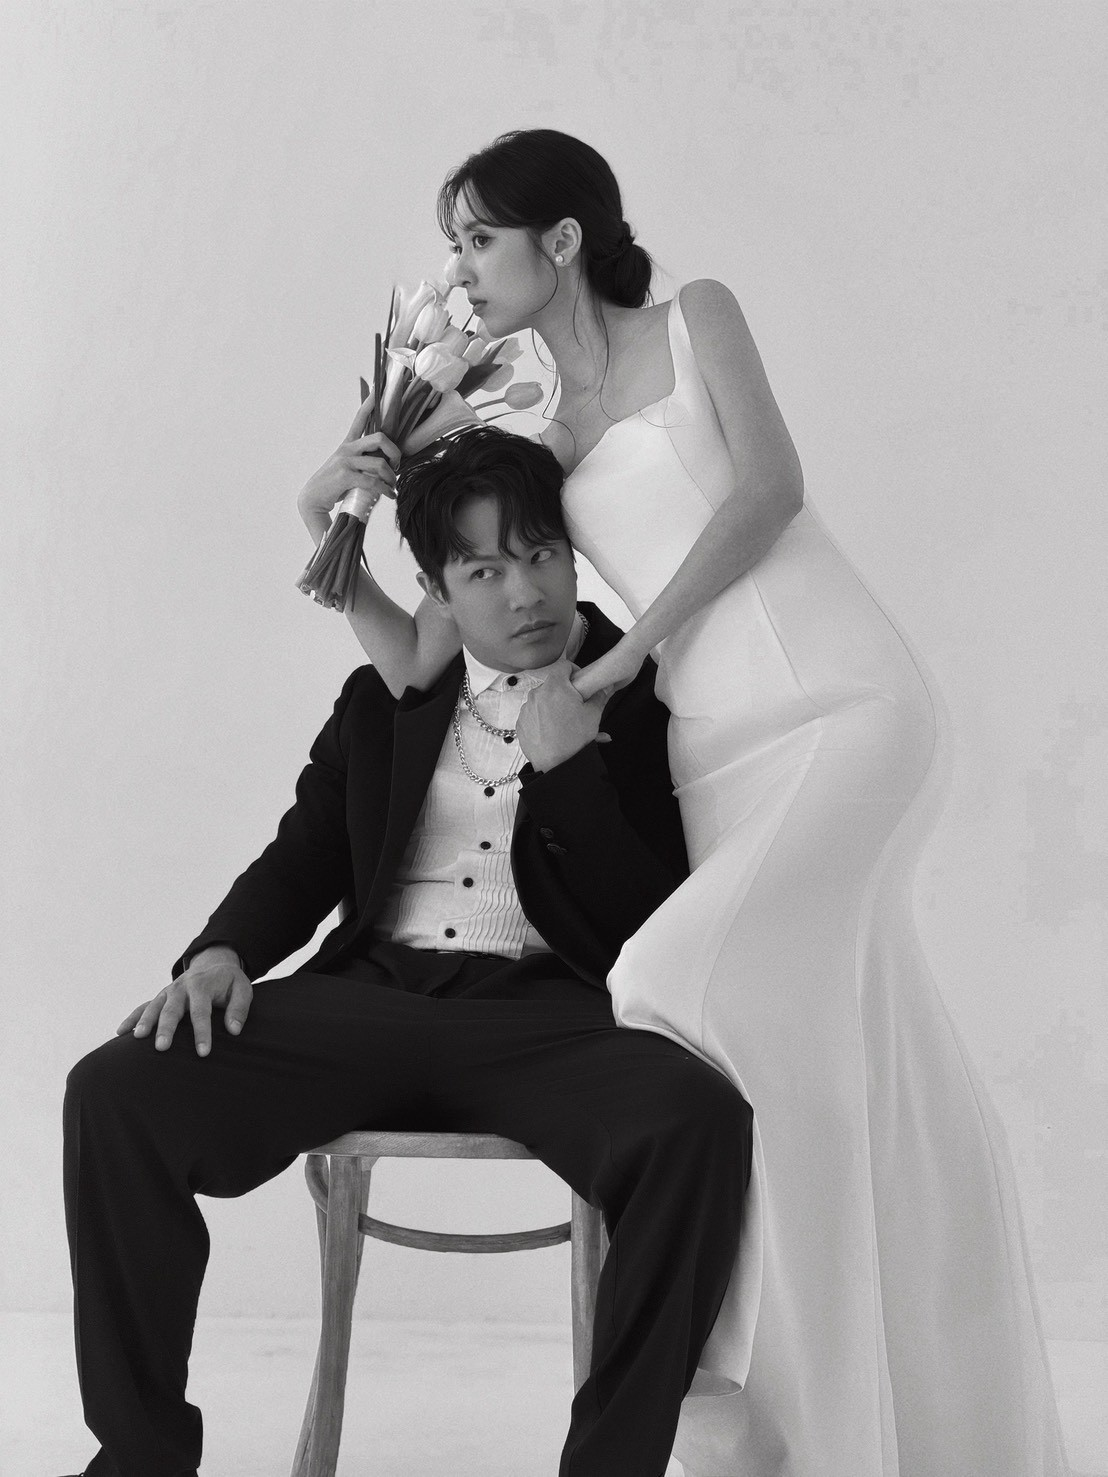
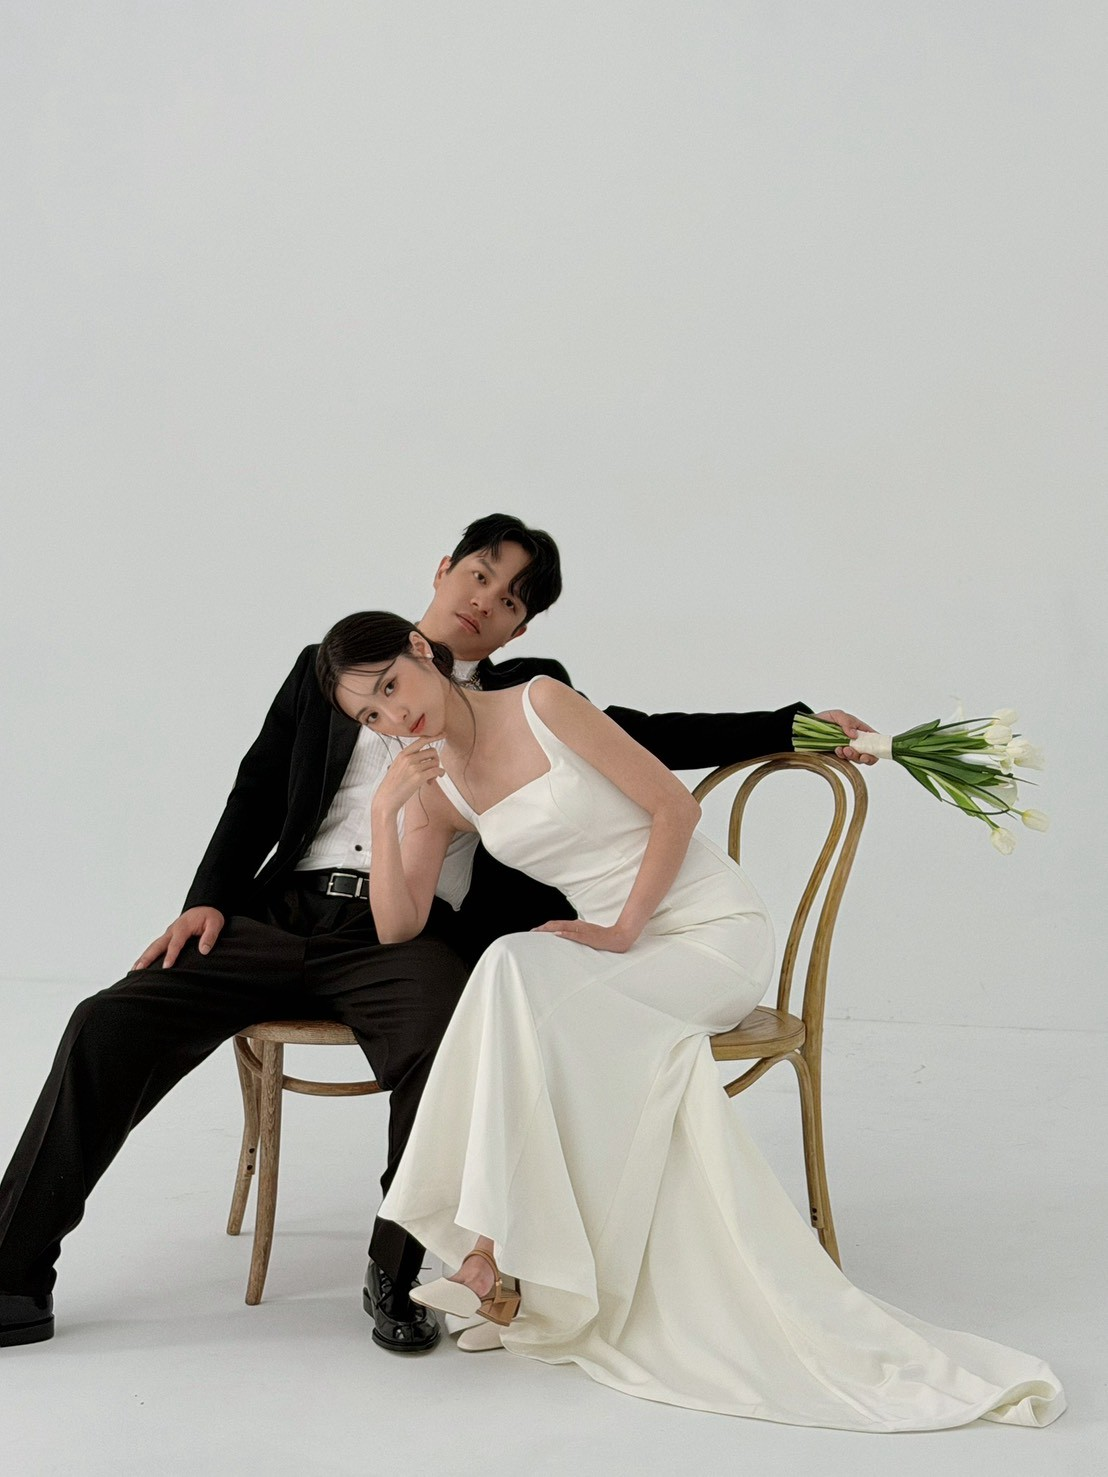
Hero: swap to seated couple portrait, shift focus to 42% for face framing

diff --git a/styles.css b/styles.css
@@ -190,7 +190,7 @@ img{max-width:100%;display:block}
 }
 .hero-bg{
   position:absolute;inset:-5%;
-  background-size:cover;background-position:center 25%;
+  background-size:cover;background-position:center 42%;
   filter:grayscale(20%) brightness(0.78) contrast(0.92) sepia(15%);
   opacity:.55;
   animation:heroZoomOut 50s ease-out both;
